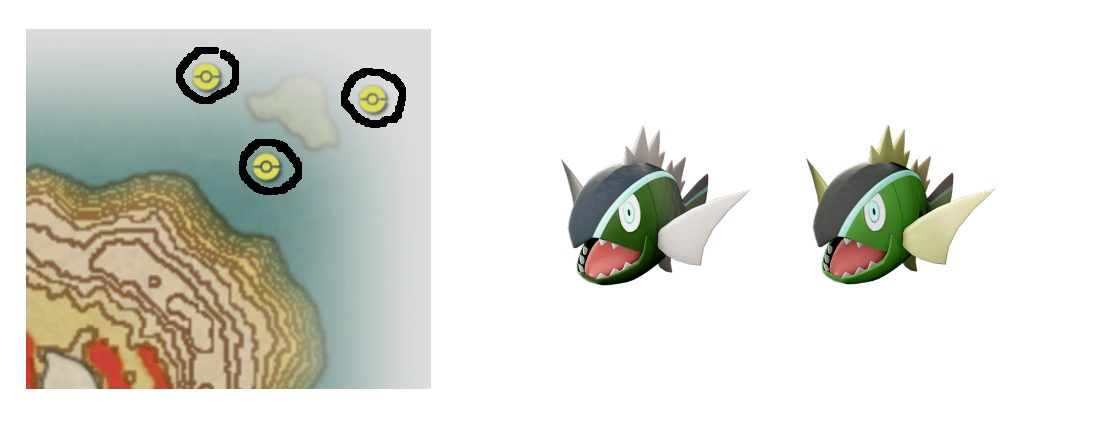
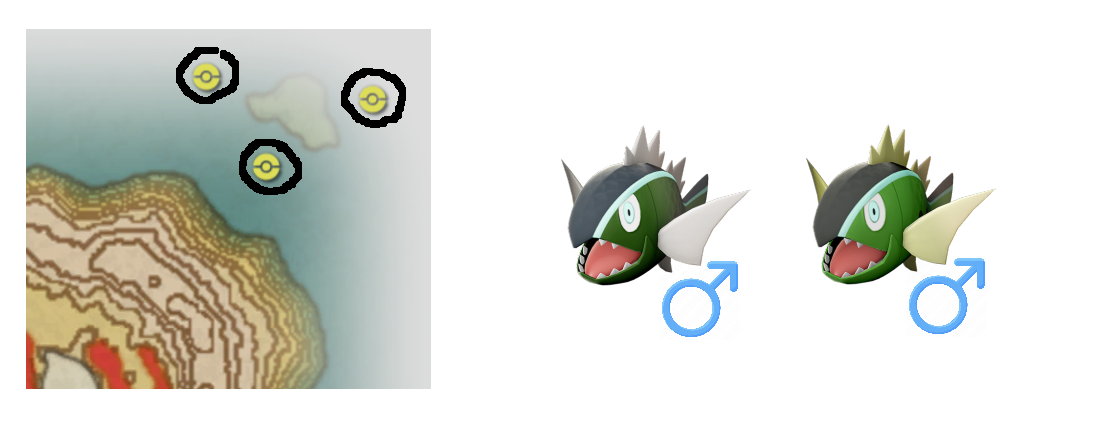
fixed set_gender on basculin

Changed region(s): [[0.583, 0.6132, 0.6751, 0.7972], [0.7978, 0.5825, 0.8899, 0.7972]]

diff --git a/pla/checkmultiseed.py b/pla/checkmultiseed.py
@@ -18,7 +18,7 @@ encounter_table = json.load(open("/home/cappy/pla-multi-checker-web/static/resou
 
 SPAWNER_PTR = "[[main+42a6ee0]+330]"
 
-fixedgenders = ["Happiny", "Chansey", "Blissey", "Petilil", "Lilligant", "Bronzor", "Bronzong", "Voltorb", "Electrode", "Rotom", "Rufflet", "Braviary", "Unown"]
+fixedgenders = ["Happiny", "Chansey", "Blissey", "Petilil", "Lilligant", "Bronzor", "Bronzong", "Voltorb", "Electrode", "Rotom", "Rufflet", "Braviary", "Unown","Basculin"]
 
 
 def generate_from_seed(seed,rolls,guaranteed_ivs=0,set_gender=False):
@@ -52,20 +52,6 @@ def generate_from_seed(seed,rolls,guaranteed_ivs=0,set_gender=False):
     nature = rng.rand(25)
     return ec,pid,ivs,ability,gender,nature,shiny,square
 
-def read_mass_outbreak_rng(group_seed,rolls,remain):
-    main_rng = XOROSHIRO(group_seed)
-    for respawn in range(0,remain):
-        generator_seed = respawn_rng.next()
-        respawn_rng.next() # spawner 1's seed, unused
-        respawn_rng = XOROSHIRO(respawn_rng.next())
-        fixed_rng = XOROSHIRO(generator_seed)
-        encounter_slot = (fixed_rng.next() / (2**64)) * encsum
-        fixed_seed = fixed_rng.next()
-        ec,pid,ivs,ability,gender,nature,shiny,square = generate_from_seed(fixed_seed,rolls)
-        if shiny and encounter_slot > 122:
-            print(f"{generator_seed:X} Advance {advance} Respawn {respawn} EC: {ec:08X} PID: {pid:08X} {'/'.join(str(iv) for iv in ivs)}")
-            return True
-    return False
 
 def multi(group_seed,rolls,group_id,maxalive,maxdepth=5):
     path = []
@@ -230,6 +216,8 @@ def check_multi_spawner_seed(group_seed,rolls,group_id,maxalive,maxdepth):
         ratio = ratioarray[2]
         if display[index]["gender"] < ratio and cutspecies not in ["Bronzor", "Bronzong", "Rotom", "Voltorb", "Electrode", "Unown"]:
             display[index]["gender"] = "Female <i class='fa-solid fa-venus' style='color:pink'></i>"
+        elif cutspecies in ["Basculin"]:
+            display[index]["gender"] = "Male <i class='fa-solid fa-mars' style='color:blue'></i>"
         elif cutspecies in ["Bronzor", "Bronzong", "Rotom", "Voltorb", "Electrode","Unown"]:
             display[index]["gender"] = "Genderless <i class='fa-solid fa-genderless'></i>"
         else:
